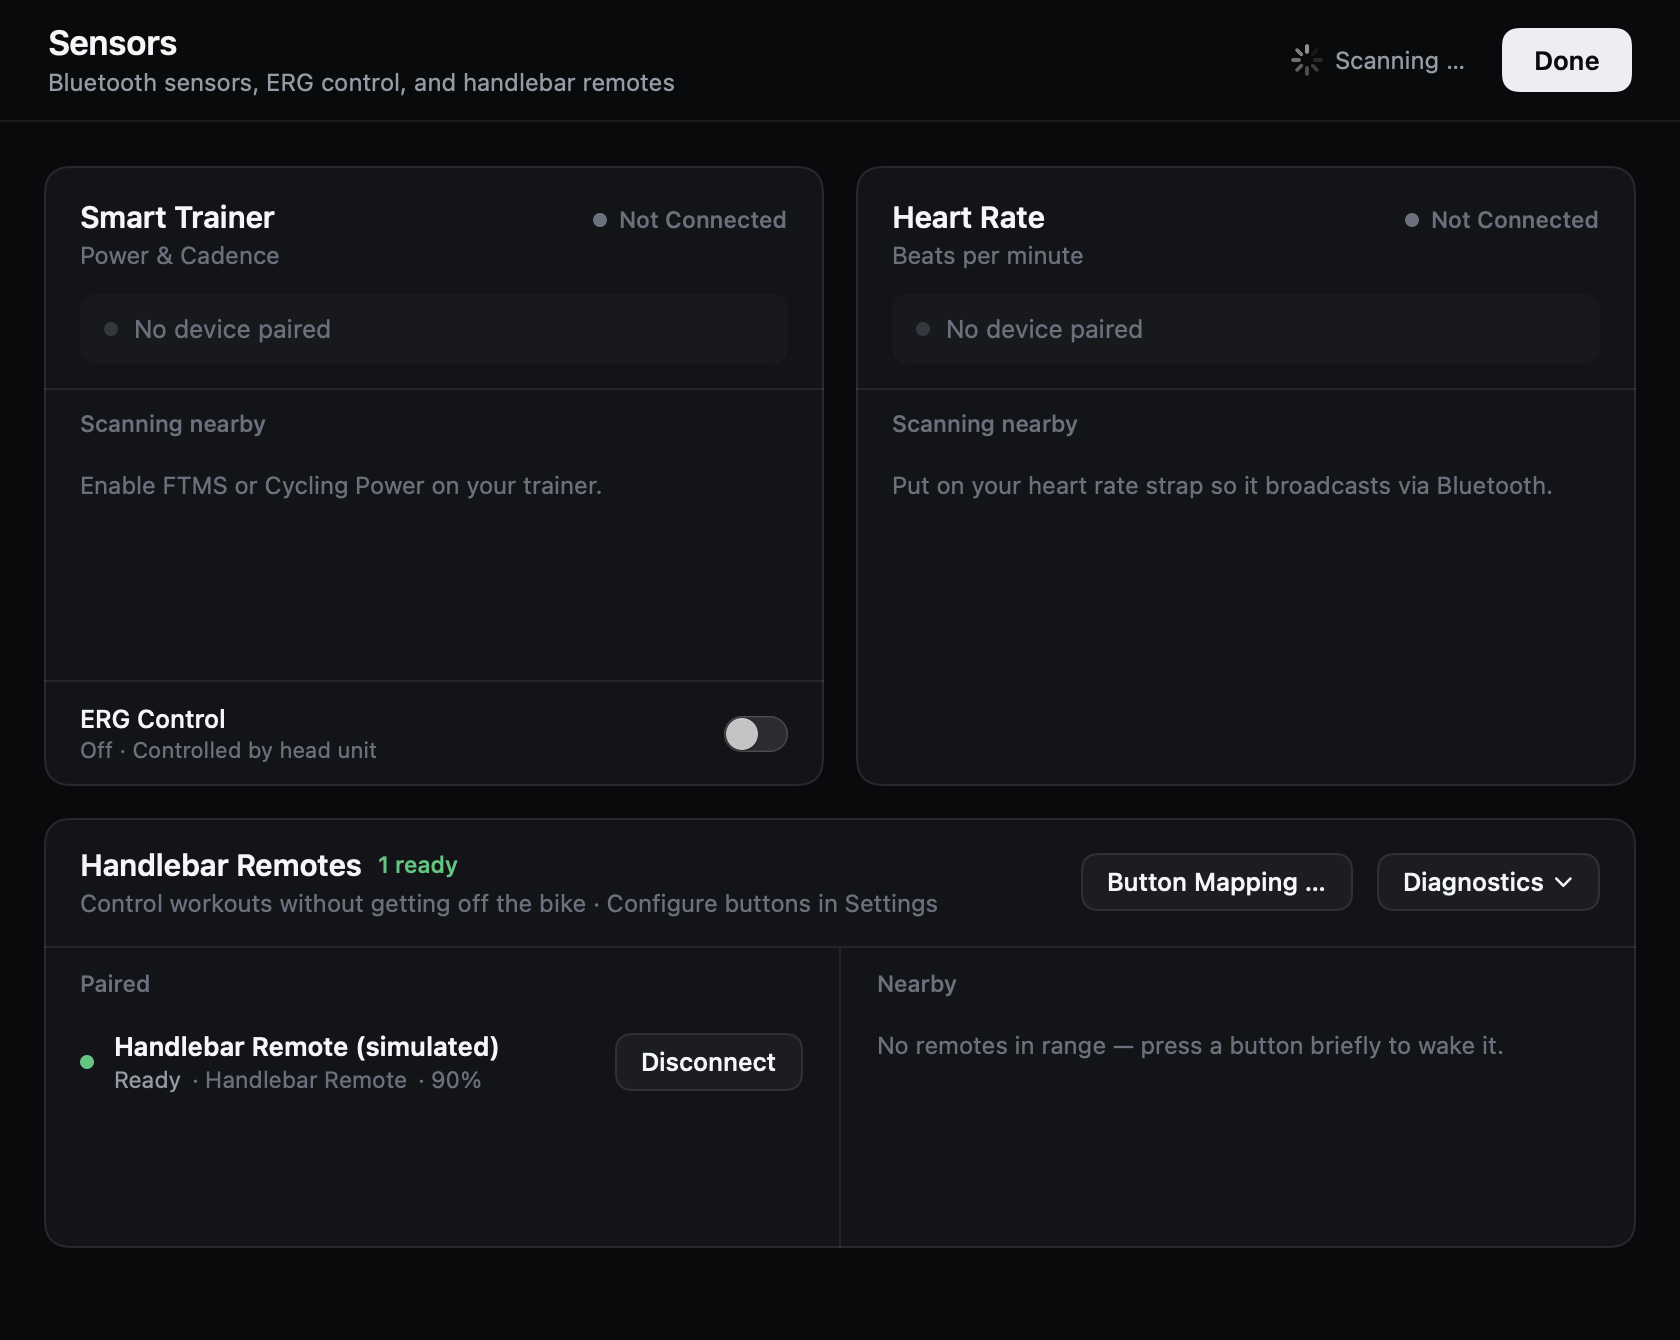
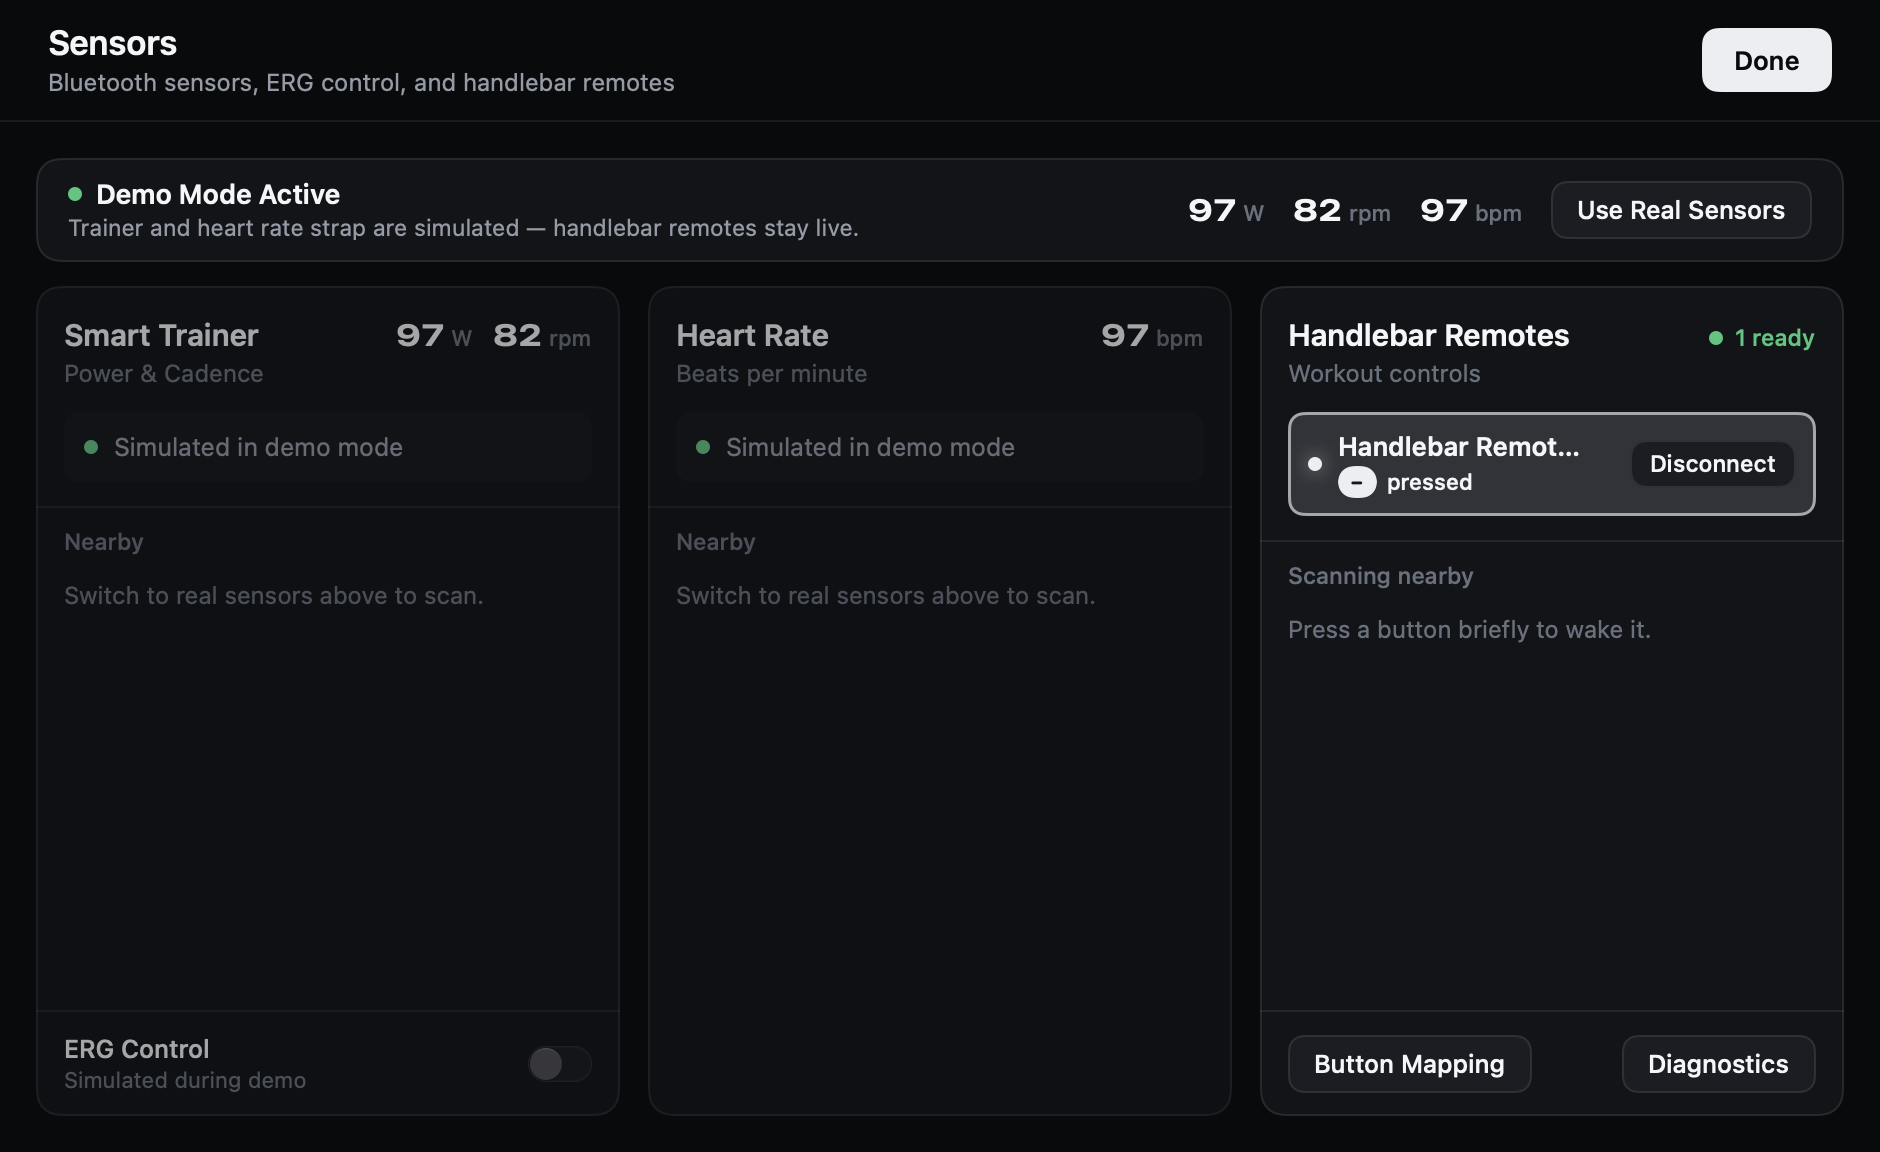
Release v1.3.0

diff --git a/README.md b/README.md
@@ -14,7 +14,7 @@ Calm typography, high contrast, and effortless sensor control — built for moni
 </a>
 
 <p>
-  <a href="https://github.com/Lassegra/metric/releases/tag/v1.2.2"><strong>Version 1.2.2</strong></a>
+  <a href="https://github.com/Lassegra/metric/releases/tag/v1.3.0"><strong>Version 1.3.0</strong></a>
   &nbsp;·&nbsp;
   macOS 14+
   &nbsp;·&nbsp;
@@ -40,12 +40,12 @@ Ride alongside your bike computer as a distraction-free display companion — or
     <td width="50%" valign="top">
       <img src="screenshots/home-1280.png" width="100%" alt="Home and workout profile preview">
       <p><strong>Plan & Preview</strong><br>
-      Inspect every interval at a glance with zone colors, target watts, IF/TSS estimates, and one-click <strong>Copy</strong> for training partners.</p>
+      Inspect grouped workout phases, collapsed repeat rounds, interactive profile charts, IF/TSS estimates, and one-click <strong>Copy</strong> for training partners.</p>
     </td>
     <td width="50%" valign="top">
       <img src="screenshots/sensors-click.png" width="100%" alt="Bluetooth sensors, ERG control, and handlebar remotes">
       <p><strong>Sensors, ERG & Remotes</strong><br>
-      Pair smart trainers (<code>FTMS</code> / <code>Cycling Power</code>), heart rate straps, and compatible Bluetooth handlebar remotes with automatic reconnect.</p>
+      Pair smart trainers (<code>FTMS</code> / <code>Cycling Power</code>), heart rate straps, and compatible Bluetooth handlebar remotes with live button feedback and per-controller <strong>Button Mapping</strong> right inside Sensors.</p>
     </td>
   </tr>
   <tr>
@@ -66,8 +66,9 @@ Ride alongside your bike computer as a distraction-free display companion — or
 
 ## Highlights
 
+- **Focused Instrument Cockpit** — Matte high-contrast 3-column telemetry (`Power`, `Cadence`, `Heart Rate`) with `SF Pro Expanded` typography, calibrated target gauges, calm steady-state readouts with crisp out-of-target action cues, and an always-visible wall clock (even while paused).
 - **Offline Custom Workouts (`⌘ N`)** — Write workouts in compact text syntax with a live profile chart, IF/TSS metrics, parser notices, and interval breakdown, pick from 4 built-in templates, or import `.txt` files and clipboard text. Everything stays local on your Mac.
-- **Live Workout Intensity (`50%`–`150%`)** — Dial target watts up or down in `±5%` steps mid-ride from the cockpit bar, keyboard (`↑` / `↓`, `0` to reset), or a handlebar remote without interrupting ERG control.
+- **Live Workout Intensity (`50%`–`150%`)** — Dial target watts up or down in `±5%` steps mid-ride from the cockpit bar, keyboard (`↑` / `↓`, `0` to reset), or a mapped handlebar remote button without interrupting ERG control.
 - **Optional Intervals.icu Sync** — Enter a personal API key in **Settings (`⌘ ,`)** to load scheduled workouts (today + 6 days) and your Ride FTP. Keys stay exclusively in the **macOS Keychain** with strictly read-only HTTPS GET calls.
 - **Automatic Update Checks** — Optionally checks GitHub Releases on launch (or manually via **Metric → Check for Updates …**) with release highlights and a direct download link for `Metric.dmg`.
 - **Keep Your Bike Computer Connected** — Many trainers and straps allow only one or two concurrent Bluetooth connections. Pair your bike computer over **ANT+** whenever available so Bluetooth stays free for your Mac.

diff --git a/CHANGELOG.md b/CHANGELOG.md
@@ -5,6 +5,15 @@ Format follows [Keep a Changelog](https://keepachangelog.com/en/1.1.0/) and [Sem
 
 ## [Unreleased]
 
+## Version 1.3.0 (Build 6) – 2026-11-15
+
+### Highlights
+- **Instrument Ride Cockpit (`RideView`, `Theme`, `SummaryView`, `WorkoutProfileView`):** Switched primary telemetry typography to `SF Pro Expanded SemiBold` (`width(.expanded)`) with wider tracking and dynamic box-filling sizing across all window and projector dimensions (`40/56–560pt` primary, `16/18–96pt` context, `11/12–44pt` labels, `32–72pt` controls, proportional gauges, and progress bar); unified `2/3 + 1/3` interval row (`INTERVAL › NEXT` + `STEP LEFT` aligned above `POWER | CADENCE | HEART RATE` with always-visible `elapsed` / `left`), matte `#121418` continuous-corner panels with `16px` channels, animated gauge needles (`.smooth`) with `.contentTransition(.identity)`, `0.30s` `ActionCueLabel` + `#2CE0D0` out-of-target cues, permanent top-right wall clock visibility, uncluttered Pause overlay, interaction-gated detail controls, and anchored `WorkoutProfileView` cursor clearance.
+- **Grouped Phase Blocks & Interactive Home Chart (`HomeView` & `WorkoutProfileView`):** Replaced the flat home-screen interval list with un-nested, hairline-divided phase blocks (`WorkoutBlock`) using a unified title-above-metrics cell layout, folding repeated cycles (`3×`, `4×`) cleanly with interactive round selectors and bidirectional hover/click highlighting with the profile chart above.
+- **3-Column Sensors Sheet & In-Card Remote Button Mapping (`DevicesView`, `ClickSection`, `ClickModels`, `AppSettings`, `SettingsView`, `InfoViews`):** Replaced the scrolling 2+1 sensor grid with a non-scrolling 3-column layout (`Smart Trainer`, `Heart Rate`, `Handlebar Remotes`) of equal-width columns and uniform inset rows; moved **Diagnostics** and **Button Mapping** directly into the `Handlebar Remotes` card footer (removing remote mapping from `SettingsView`); added live button press flash feedback restricted to the Sensors sheet; made available buttons inside **Button Mapping** adapt dynamically to each connected controller; and treated all controllers identically with every button starting unassigned (`Nothing` / `.none`) by default and **Clear All** to wipe assignments.
+- **Handlebar Remote Protocol & Dual-Unit Ownership (`HandlebarRemote`, `ClickManager`, `AppSettings`, `AppModel`):** Added symmetric physical button ownership deduplication (`RemoteDeviceModel.nativeButtons` / `owns(_:)`) so cross-unit BLE mirrors never steal press filtering or flash the wrong card (while still reporting fallback `(relayed)` presses when only one unit is connected), persisted hardware subtype bytes (`|09`/`|0A`/`|0B`) in `AppSettings.clickDevices`, added background `needsModelScan` manufacturer-data resolution and `retrieveConnectedPeripherals(withServices:)` discovery, allowed remote activation during interactive `--demo` runs, tagged Diagnostics log rows per unit (`· L` / `· R` / `· v1`), logged GATT read/notify errors, and hardened `v2` handshake sequencing.
+- **Updated Documentation & GitHub Screenshots (`README.md`, `dist/README.txt`, `screenshots/`):** Refreshed all showcase screenshots and user documentation to match the 1.3.0 cockpit, home phase blocks, 3-column Sensors view, and in-card remote button mapping.
+
 ## Version 1.2.2 (Build 5) – 2026-11-14
 
 ### Changed
